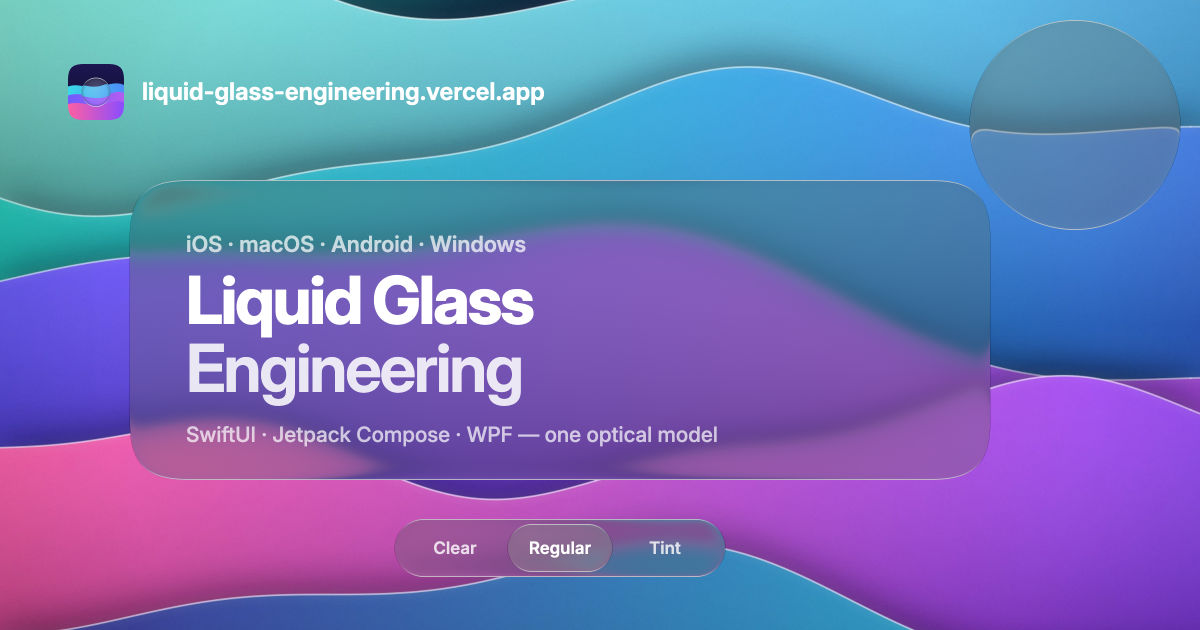
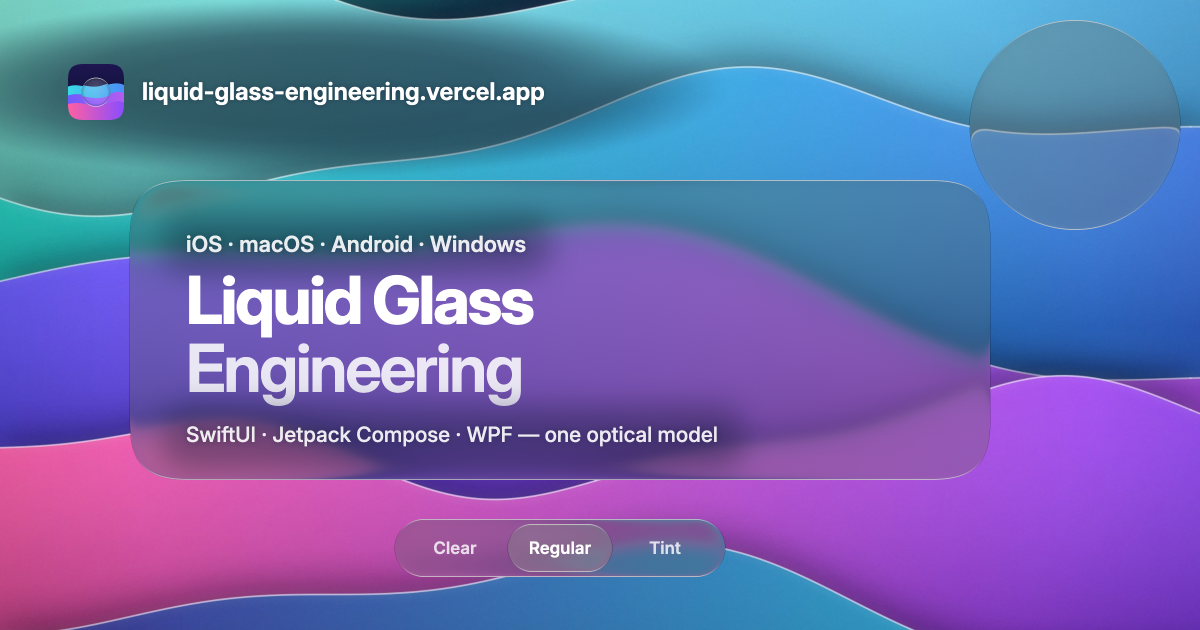
Website OG image: the domain line gets a feathered dark scrim over the light aqua band (6.5:1 at its lightest, was 1.9:1), and the kicker and subtitle on the card go to 0.9 white with a soft halo over a faint dimming band clipped to the card (kicker 5.1:1, was 2.8:1; subtitle 5.4:1, was 2.8:1), meas

Changed region(s): [[0.0, 0.0, 0.5858, 0.2714], [0.1233, 0.6333, 0.6167, 0.754], [0.1233, 0.3317, 0.4625, 0.4524]]

diff --git a/website/src/og.tsx b/website/src/og.tsx
@@ -63,13 +63,57 @@ async function main() {
   ctx.drawImage(gl, 0, 0);
   ctx.scale(S, S);
 
-  // Card content.
+  // White text over light wallpaper or light glass gets a dimmed backdrop so it reads at feed size: at least
+  // WCAG 4.5:1 against the pixels behind it, measured on the PNG. Canvas shadows and filters ignore the transform,
+  // so their blur is given in output pixels.
+  const ink = "4, 14, 34";
+  // A soft halo: first only the text's dark blurred shadow (the text is drawn off the canvas, its shadow offset
+  // back under the real line), then the text itself.
+  const halo = (draw: () => void, alpha: number, blur: number) => {
+    ctx.save();
+    ctx.translate(-2 * W, 0);
+    ctx.shadowOffsetX = 2 * W * S;
+    ctx.shadowColor = `rgba(${ink}, ${alpha})`;
+    ctx.shadowBlur = blur * S;
+    draw();
+    ctx.restore();
+    draw();
+  };
+  // A feathered band of the same dimming under a line of text on the card, clipped to the card.
+  const band = (x: number, y: number, w: number, h: number, alpha: number) => {
+    ctx.save();
+    ctx.beginPath();
+    ctx.roundRect(card.x - card.w / 2, card.y - card.h / 2, card.w, card.h, card.r);
+    ctx.clip();
+    ctx.filter = `blur(${14 * S}px)`;
+    ctx.fillStyle = `rgba(${ink}, ${alpha})`;
+    ctx.beginPath();
+    ctx.roundRect(x, y, w, h, 24);
+    ctx.fill();
+    ctx.restore();
+  };
+
+  // The mark and domain sit on the light aqua top band: a feathered scrim (an ellipse that fades out above the
+  // card and well clear of the round lens) dims the band behind them.
+  ctx.save();
+  ctx.translate(310, 88);
+  ctx.scale(420, 90);
+  const scrim = ctx.createRadialGradient(0, 0, 0, 0, 0, 1);
+  const falloff: [number, number][] = [[0, 0.58], [0.45, 0.56], [0.6, 0.5], [0.72, 0.38], [0.82, 0.24], [0.9, 0.12], [0.96, 0.04], [1, 0]];
+  for (const [at, alpha] of falloff) scrim.addColorStop(at, `rgba(${ink}, ${alpha})`);
+  ctx.fillStyle = scrim;
+  ctx.fillRect(-1, -1, 2, 2);
+  ctx.restore();
+
+  // Card content. The kicker sits where the card's glass is lightest (the teal behind its top-left corner) and
+  // the subtitle over the pink at its bottom right, so both are at 0.9 (from 0.7), haloed, over a faint band.
   const left = card.x - card.w / 2 + 56;
   ctx.fillStyle = "#ffffff";
   ctx.textBaseline = "alphabetic";
+  band(left - 24, card.y - 117, 389, 62, 0.32);
   ctx.font = '600 22px "Inter Variable", sans-serif';
-  ctx.globalAlpha = 0.72;
-  ctx.fillText("iOS · macOS · Android · Windows", left, card.y - 78);
+  ctx.globalAlpha = 0.9;
+  halo(() => ctx.fillText("iOS · macOS · Android · Windows", left, card.y - 78), 0.4, 8);
   ctx.globalAlpha = 1;
   ctx.font = '750 66px "Inter Variable", sans-serif';
   ctx.letterSpacing = "-2.4px";
@@ -77,10 +121,12 @@ async function main() {
   ctx.globalAlpha = 0.86;
   ctx.font = '650 66px "Inter Variable", sans-serif';
   ctx.fillText("Engineering", left, card.y + 62);
-  ctx.globalAlpha = 0.7;
+  ctx.globalAlpha = 1;
   ctx.letterSpacing = "0px";
+  band(left - 24, card.y + 76, 581, 64, 0.32);
+  ctx.globalAlpha = 0.9;
   ctx.font = '500 21px "Inter Variable", sans-serif';
-  ctx.fillText("SwiftUI · Jetpack Compose · WPF — one optical model", left, card.y + 112);
+  halo(() => ctx.fillText("SwiftUI · Jetpack Compose · WPF — one optical model", left, card.y + 112), 0.4, 8);
   ctx.globalAlpha = 1;
 
   // Tab bar labels.
@@ -98,10 +144,10 @@ async function main() {
   ctx.textAlign = "left";
   ctx.fillStyle = "#ffffff";
   ctx.font = '650 24px "Inter Variable", sans-serif';
-  ctx.fillText("liquid-glass-engineering.vercel.app", 142, 100);
+  halo(() => ctx.fillText("liquid-glass-engineering.vercel.app", 142, 100), 0.35, 6);
 
-  // Downscale to the final 1200 x 630 PNG. It is saved as the canvas encodes it (full color): do not quantize it
-  // to a palette afterwards, which speckles the glass with dithering.
+  // Downscale to the final 1200 x 630 PNG. It is saved as the canvas encodes it (full color). A lossless re-encode
+  // (RGB, maximum compression) halves the file; do not quantize it to a palette, which speckles the glass with dithering.
   const final = document.createElement("canvas");
   final.width = W;
   final.height = H;
